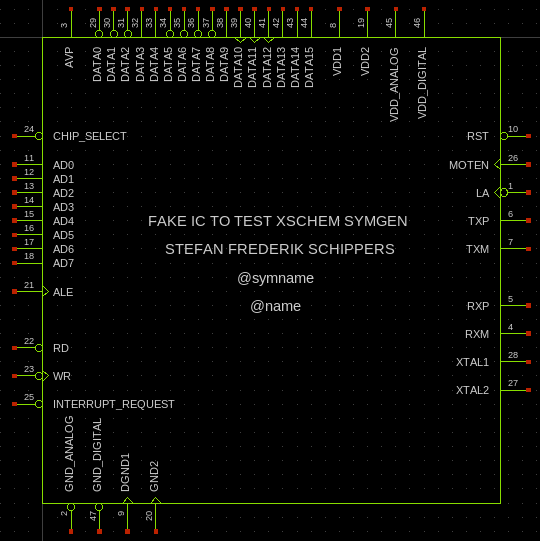
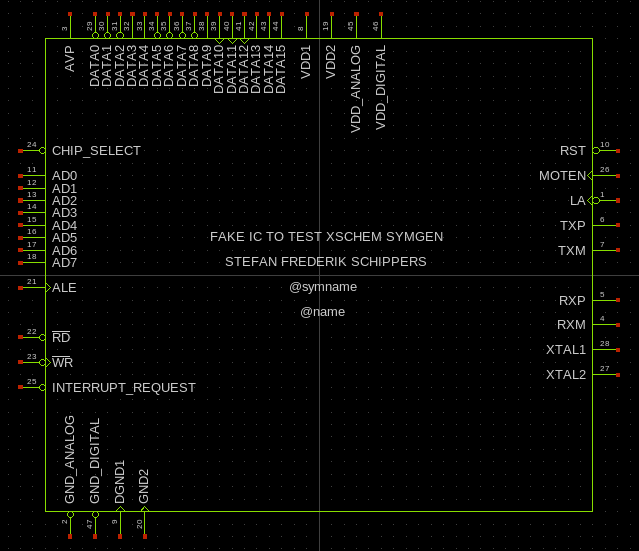
symgen: added horizontal top/bottom pin orientation (default), --vmode option for vertical, like in djboxsym, error checking in ngspice_backannotate,

Changed region(s): [[0.0, 0.0, 0.9778, 1.0], [0.6222, 0.0, 0.6519, 0.0296]]

diff --git a/doc/xschem_man/tutorial_symgen.html b/doc/xschem_man/tutorial_symgen.html
@@ -62,6 +62,7 @@ DEMO ONLY
 23 !&gt; WR/(R/!W)
 
 25 ! INT
+29  \_RESET\_
 
 [right]
 10 ! RST
@@ -76,17 +77,16 @@ DEMO ONLY
 
 28 XTAL1
 27 XTAL2
-
 [top]
 3 AV+
 8 VDD1
+30 !&gt; \_CLK\_
 19 VDD2
 
 [bottom]
 2 AGND
 9 DGND1
 20 DGND2
-
  </pre>
  <p>
   Creating the symbol is simple: <br>
@@ -112,7 +112,7 @@ STEFAN FREDERIK SCHIPPERS
 ! type=subcircuit
 ! format="@name @pinlist @symname"
 ! template="name=x1"
-
+--vmode
 [left]
 24   i!   CHIP_SELECT
 .bus
@@ -127,8 +127,8 @@ STEFAN FREDERIK SCHIPPERS
 
 21   i&gt;   ALE
 
-22   i!   RD
-23   i!&gt;  WR
+22   i!   \_RD\_
+23   i!&gt;  \_WR\_
 25   i!   INTERRUPT_REQUEST
 [right]
 10   i!   RST
@@ -142,9 +142,9 @@ STEFAN FREDERIK SCHIPPERS
 28   i    XTAL1
 27   i    XTAL2
 [top]
-3    b    AVP
+3    io    AVP
 .bus
-29  o!    DATA0 
+29  o!    DATA0
 30  o!    DATA1
 31  o!    DATA2
 32  o     DATA3
@@ -161,15 +161,15 @@ STEFAN FREDERIK SCHIPPERS
 43  o     DATA14
 44  o     DATA15
 
-8    b    VDD1
-19   b    VDD2
-45   b    VDD_ANALOG
-46   b    VDD_DIGITAL
+8    io    VDD1
+19   io    VDD2
+45   io    VDD_ANALOG
+46   io    VDD_DIGITAL
 [bottom]
-2    b!   GND_ANALOG
-47   b!   GND_DIGITAL
-9    b&gt;   DGND1
-20   b&gt;   GND2
+2    io!   GND_ANALOG
+47   io!   GND_DIGITAL
+9    io&gt;   DGND1
+20   io&gt;   GND2
  </pre>
  <img src = "tutorial_symgen_02.png" style="max-width: 100%;">
  <p>
@@ -187,12 +187,18 @@ STEFAN FREDERIK SCHIPPERS
    <i>Port direction specifiers are indeed supported also by 'djboxsym' but not documented.</i>
   </li>
   <li>
-   <kbd>.bus</kbd> specifier can be used for all pin orientations, left, top, right, bottom. djboxsym 
-   does not allow reduced spacing busses on top and bottom sides of the symbol.
+   Option <kbd>--vmode</kbd> given <b>before</b> any pin declaration like in djboxsym sets vertical orientation for top / bottom pins.
+  </li>
+  <li>
+   <kbd>.bus</kbd> specifier can be used for all pin orientations, left, top, right, bottom if <kbd>--vmode</kbd>
+   is enabled, otherwise it will affect only spacing of left/right pins.
   </li>
   <li> 
    Option <kbd>--auto_pinnumber</kbd> given <b>before</b> any pin declaration lets <kbd>symgen.awk</kbd>
    automatically add pin numbers, so the first field may be omitted
+  </li>
+  <li>
+   Edge trigger (>) and inversion bubble (!) specifiers are drawn on all sides, not only left/right.
   </li>
   <li> 
    Option <kbd>--hide_pinnumber</kbd> given <b>before</b> any pin declaration avoids

diff --git a/src/scheduler.c b/src/scheduler.c
@@ -65,7 +65,7 @@ int xschem(ClientData clientdata, Tcl_Interp *interp, int argc, const char * arg
  int i;
  char name[1024]; /* overflow safe 20161122 */
  if(argc<2) return TCL_ERROR;
- if(debug_var>=3) {
+ if(debug_var>=1) {
    int i;
    fprintf(errfp, "xschem():");
    for(i=0; i<argc; i++) {
@@ -279,16 +279,19 @@ int xschem(ClientData clientdata, Tcl_Interp *interp, int argc, const char * arg
  else if(!strcmp(argv[1],"select_all"))
  {
     select_all();
+    Tcl_ResetResult(interp);
  }
 
  else if(!strcmp(argv[1],"zoom_in"))
  {
     view_zoom(0.0);
+    Tcl_ResetResult(interp);
  }
 
  else if(!strcmp(argv[1],"copy_objects"))
  {
    copy_objects(BEGIN); 
+    Tcl_ResetResult(interp);
  }
 
  else if(!strcmp(argv[1],"move_objects"))
@@ -298,6 +301,7 @@ int xschem(ClientData clientdata, Tcl_Interp *interp, int argc, const char * arg
      move_objects( END,0,atof(argv[2]), atof(argv[3]));
    }
    else move_objects(BEGIN,0,0,0); 
+   Tcl_ResetResult(interp);
  }
 
  else if(!strcmp(argv[1],"log"))
@@ -1119,7 +1123,8 @@ int xschem(ClientData clientdata, Tcl_Interp *interp, int argc, const char * arg
 
  else if(!strcmp(argv[1],"unselect_all"))
  {
-  if(argc==2) unselect_all();
+  unselect_all();
+  Tcl_ResetResult(interp);
  }
 
  else if(!strcmp(argv[1],"clear_drawing"))
